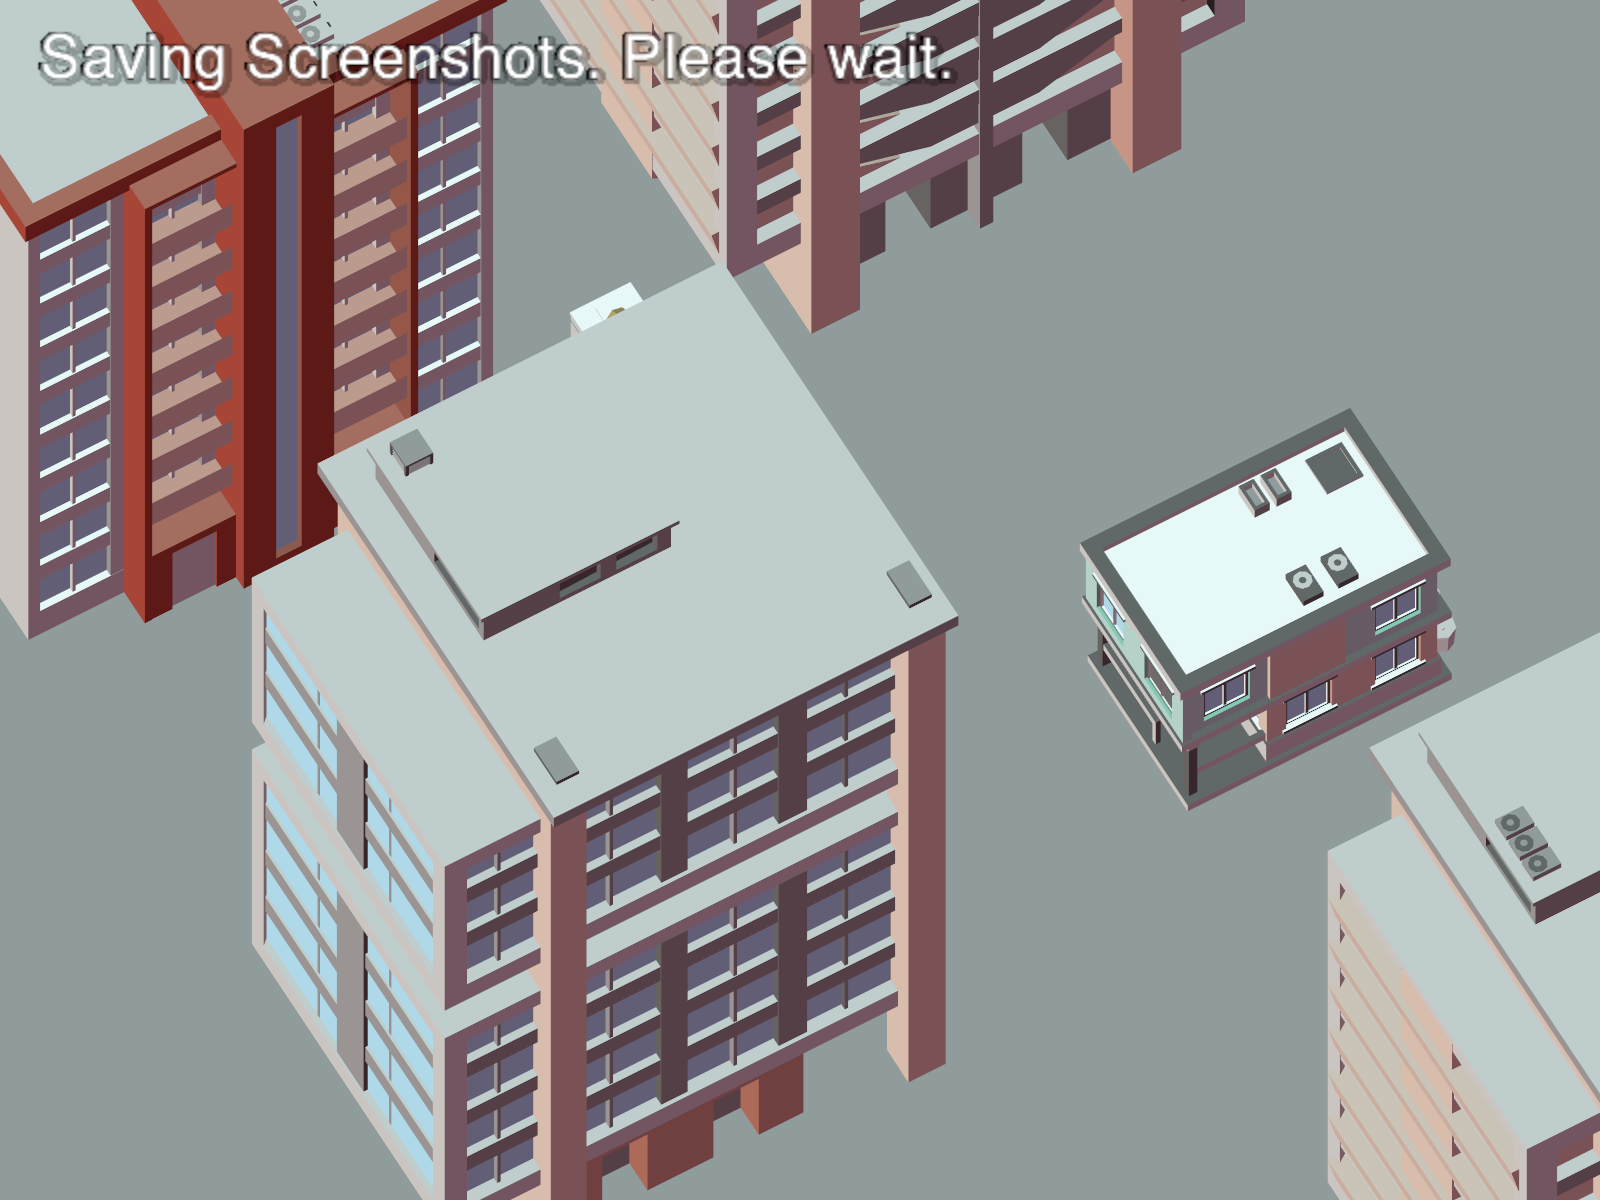
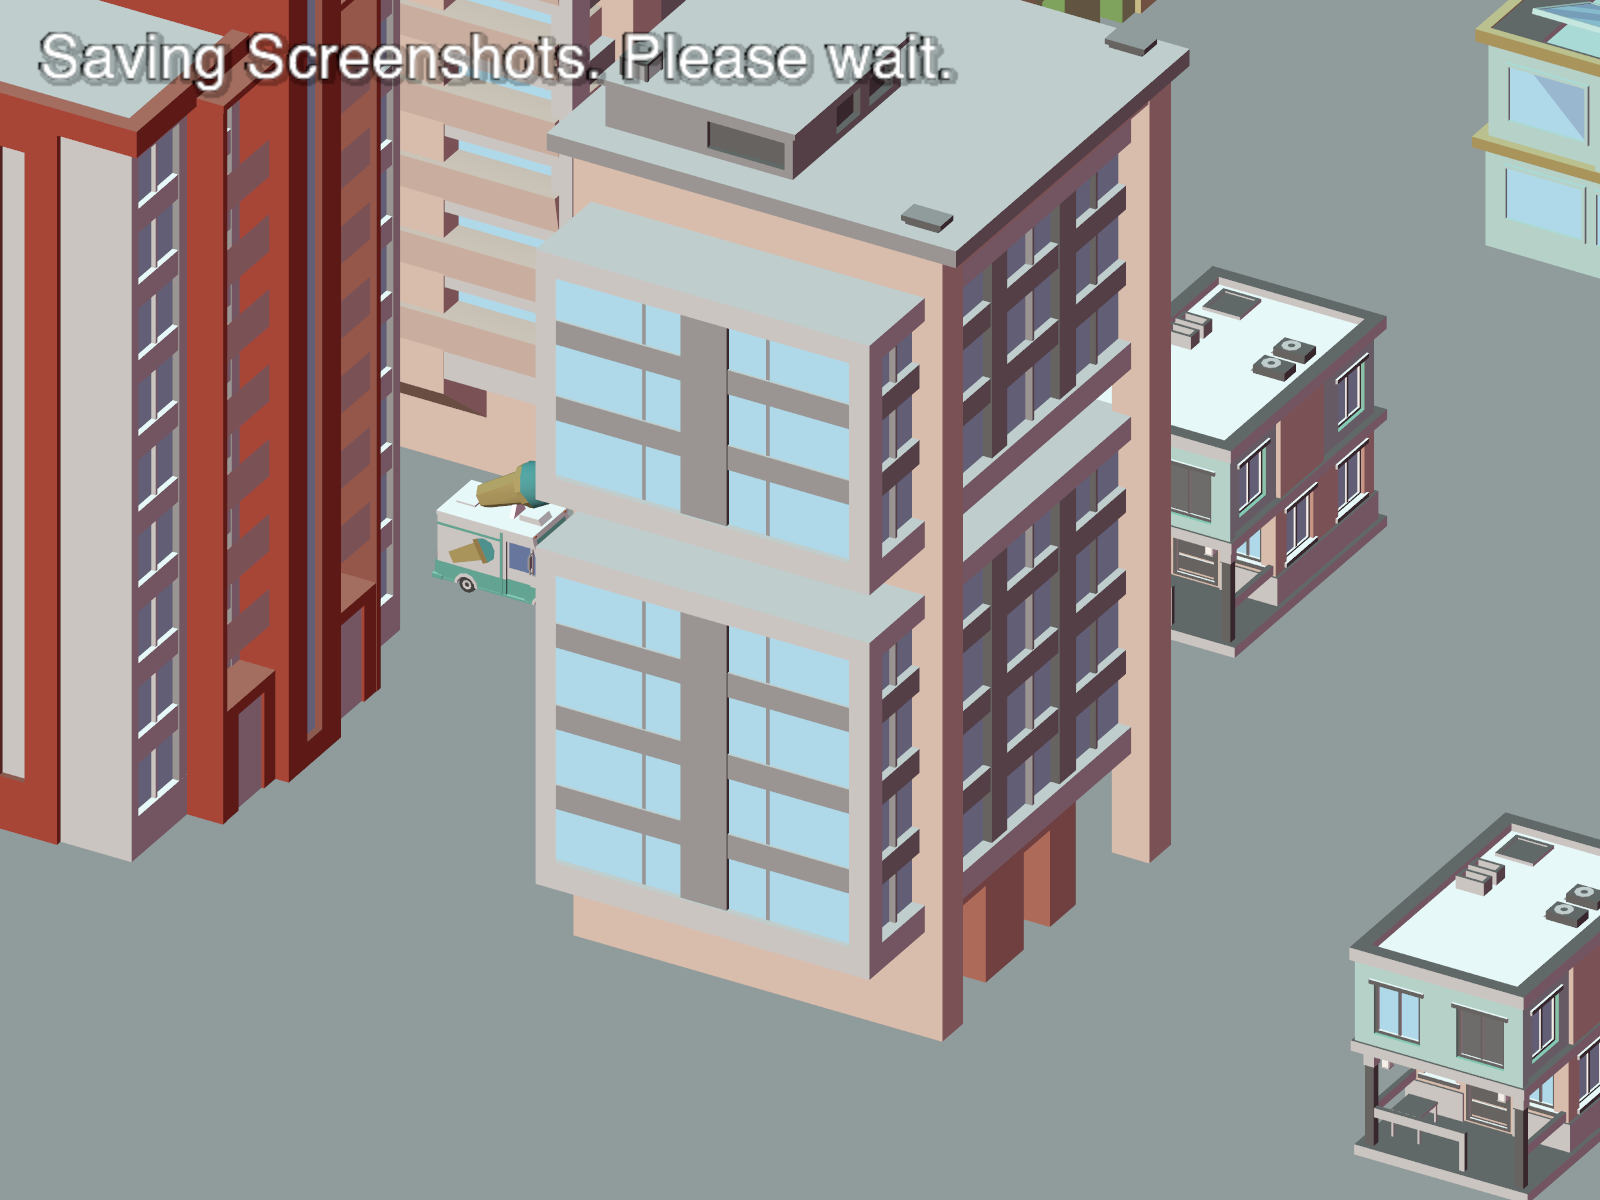
fix A03

diff --git a/A03/cameras.hpp b/A03/cameras.hpp
@@ -58,8 +58,8 @@ void SetProjections(A03 *A) {
 	A->SetMatrix(2,  M);
 
 	// Trimetric, with an angle of alpha of 30 degree, and beta of 60 degrees
-  Ry = glm::rotate(glm::mat4(1.0f),glm::radians(30.0f),glm::vec3(0.0f,1.0f,0.0f));
-  Rx = glm::rotate(glm::mat4(1.0f),glm::radians(60.0f),glm::vec3(1.0f,0.0f,0.0f));
+  Ry = glm::rotate(glm::mat4(1.0f),glm::radians(60.0f),glm::vec3(0.0f,1.0f,0.0f));
+  Rx = glm::rotate(glm::mat4(1.0f),glm::radians(30.0f),glm::vec3(1.0f,0.0f,0.0f));
   M = glm::mat4(1.0f / 20.0f,0,0,0,  0,-4.0f / 60.f,0,0,   0,0,1.0f/(-500.0f-500.0f),0, 0,0,-500.0f/(-500.0f-500.0f),1)
       * Rx * Ry;
 	A->SetMatrix(3,  M);
